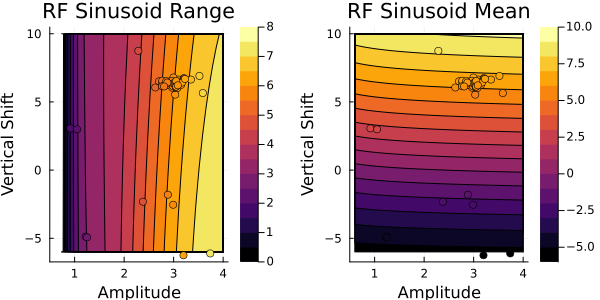
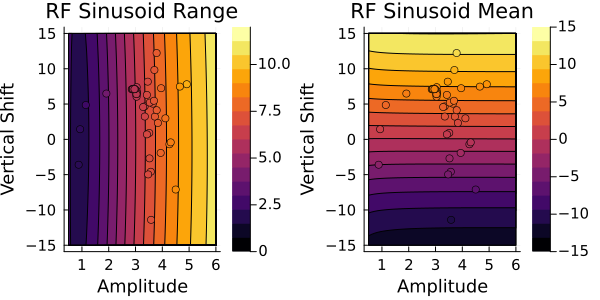
update sinusoid example

diff --git a/docs/src/examples/sinusoid_example.md b/docs/src/examples/sinusoid_example.md
@@ -101,7 +101,7 @@ white_noise = MvNormal(zeros(dim_output), Γ)
 y_obs = [y1_true, y2_true] .+ rand(white_noise)
 println("Observations:", y_obs)
 ```
-This gives $y_{obs}=(6.15, 6.42)$.
+This gives $y_{obs}=(6.01, 7.11)$.
 We can plot the true signal in black, the true observables in red and the noisy observables in blue.
 ![signal](../assets/sinusoid_true_vs_observed_signal.png)
 
@@ -141,11 +141,11 @@ const PD = EKP.ParameterDistributions
 ```
  
 We define prior distributions on the two parameters. For the amplitude,
-we define a prior with mean 2 and standard deviation 1. It is
+we define a prior with mean 4 and standard deviation 2. It is
 additionally constrained to be nonnegative. For the vertical shift we define
-a Gaussian prior with mean 0 and standard deviation 5.
+a Gaussian prior with mean 0 and standard deviation 8.
 ```julia
-prior_u1 = PD.constrained_gaussian("amplitude", 2, 1, 0, Inf)
+prior_u1 = PD.constrained_gaussian("amplitude", 4, 2, 0, Inf)
 prior_u2 = PD.constrained_gaussian("vert_shift", 0, 5, -Inf, Inf)
 prior = PD.combine_distributions([prior_u1, prior_u2])
 # Plot priors
@@ -153,7 +153,7 @@ p = plot(prior, fill = :lightgray)
 ```
 ![prior](../assets/sinusoid_prior.png)
 
-We now generate the initial ensemble and set up the EKI.
+We now generate the initial ensemble and set up the EKI. We draw around 50 evaluations for illustration
 ```julia
 N_ensemble = 10
 N_iterations = 5
@@ -181,14 +181,14 @@ Finally, we get the ensemble after the last iteration. This provides our estimat
 final_ensemble = EKP.get_ϕ_final(prior, ensemble_kalman_process)
 
 # Check that the ensemble mean is close to the theta_true
-println("Ensemble mean: ", mean(final_ensemble, dims=2))   # [3.05, 6.37]
+println("Ensemble mean: ", mean(final_ensemble, dims=2))   # [2.94, 7.08]
 println("True parameters: ", theta_true)   # [3.0, 7.0]
 ```
 
 | Parameter         | Truth    | EKI mean |
 | :---------------- | :------: | :----: |
-| Amplitude         |   3.0    | 3.05  |
-| Vertical shift    |   7.0    | 6.37  |
+| Amplitude         |   3.0    | 2.94  |
+| Vertical shift    |   7.0    | 7.08  |
 
 The EKI ensemble mean at the final iteration is close to the true parameters, which is good.
 We can also see how the ensembles evolve at each iteration in the plot below.
@@ -248,8 +248,12 @@ See the [Gaussian process page](https://clima.github.io/CalibrateEmulateSample.j
 gppackage = Emulators.GPJL()
 gauss_proc = Emulators.GaussianProcess(gppackage, noise_learn = false)
 
+# Create a data encoding to be performed on the input-output pairs
+encoder_schedule = [(decorrelate_sample_cov(), "in"), (decorrelate_structure_mat(), "out")]
+encoder_kwargs = (; obs_noise_cov = Γ,)
+
 # Build emulator with data
-emulator_gp = Emulator(gauss_proc, input_output_pairs, normalize_inputs = true,  obs_noise_cov = Γ)
+emulator_gp = Emulator(gauss_proc, input_output_pairs; encoder_schedule = encoder_schedule, encoder_kwargs = encoder_kwargs)
 optimize_hyperparameters!(emulator_gp)
 ```
 For this simple example, we already know the observational noise `Γ=0.2*I`, so we set `noise_learn = false`. 
@@ -286,8 +290,9 @@ random_features = VectorRandomFeatureInterface(
     kernel_structure = kernel_structure,
     optimizer_options = optimizer_options,
 )
+
 emulator_random_features =
-    Emulator(random_features, input_output_pairs, normalize_inputs = true, obs_noise_cov = Γ, decorrelate = false)
+    Emulator(random_features, input_output_pairs; encoder_schedule = deepcopy(encoder_schedule), encoder_kwargs=deepcopy(encoder_kwargs))
 optimize_hyperparameters!(emulator_random_features)
 ```
 ### Emulator Validation
@@ -362,7 +367,7 @@ We will provide the API with the observations, priors and our cheap emulator fro
 example we use the GP emulator. First, we need to find a suitable starting point, ideally one that is near the posterior distribution. We will use the final ensemble mean from EKI as this will increase the chance of acceptance near the start of the chain, and reduce burn-in time.
 ```julia
 init_sample = EKP.get_u_mean_final(ensemble_kalman_process)
-println("initial parameters: ", init_sample)    # (1.11, 6.37)
+println("initial parameters: ", init_sample)    # (1.07, 7.32)
 ```
 
 Now, we can set up and carry out the MCMC starting from this point. 
@@ -379,10 +384,10 @@ chain = MarkovChainMonteCarlo.sample(mcmc, 100_000; stepsize = new_step, discard
 display(chain)
 ```
 
-| parameters         | mean    | std |
-| :---------------- | :------: | :----: |
-| amplitude         |   1.1068 | 0.0943  |
-| vert_shift        |   6.3897 | 0.4601  |
+| parameters        | mean   | std   |
+| :---------------- | :----: | :---: |
+| amplitude         |   1.10 | 0.073 |
+| vert_shift        |   7.07 | 0.46  |
 
 Note that these values are provided in the unconstrained space. The vertical shift
 seems reasonable, but the amplitude is not. This is because the amplitude is constrained to be
@@ -394,7 +399,7 @@ constrained space and re-calculate these values.
 posterior = MarkovChainMonteCarlo.get_posterior(mcmc, chain)
 # Back to constrained coordinates
 constrained_posterior = Emulators.transform_unconstrained_to_constrained(
-    prior, MarkovChainMonteCarlo.get_distribution(posterior)
+    posterior, MarkovChainMonteCarlo.get_distribution(posterior)
 )
 println("Amplitude mean: ", mean(constrained_posterior["amplitude"]), ", std: ", std(constrained_posterior["amplitude"]))
 println("Vertical shift mean: ", mean(constrained_posterior["vert_shift"]), ", std: ", std(constrained_posterior["vert_shift"]))
@@ -402,10 +407,10 @@ println("Vertical shift mean: ", mean(constrained_posterior["vert_shift"]), ", s
 This gives:
 
 
-| parameters        | mean     | std     |
-| :---------------- | :------: | :----:  |
-| amplitude         |   3.0382 | 0.2880  |
-| vert_shift        |   6.3774 | 0.4586  |
+| parameters        | mean   | std  |
+| :---------------- | :----: | :--: |
+| amplitude         |   3.01 | 0.21 |
+| vert_shift        |   7.07 | 0.46 |
 
 This is in agreement with the true $\theta=(3.0, 7.0)$ and with the observational covariance matrix we provided $\Gamma=0.2 * I$ (i.e., a standard deviation of approx. $0.45$). `CalibrateEmulateSample.jl` has built-in plotting
 recipes to help us visualize the prior and posterior distributions.  Note that these are the
@@ -433,10 +438,10 @@ $\theta_2$ below, with the marginal distributions on each axis.
 We can repeat the sampling method using the random features emulator instead of the Gaussian
 process and we find similar results: 
 
-| parameters        | mean     | std    |
-| :---------------- | :------: | :----: |
-| amplitude         |   3.3210 | 0.7216 |
-| vert_shift        |   6.3986 | 0.5098 |
+| parameters        | mean   | std  |
+| :---------------- | :----: | :--: |
+| amplitude         |   2.99 | 0.21 |
+| vert_shift        |   7.06 | 4.89 |
 
 ![RF_2d_posterior](../assets/sinusoid_MCMC_hist_RF.png)
 
